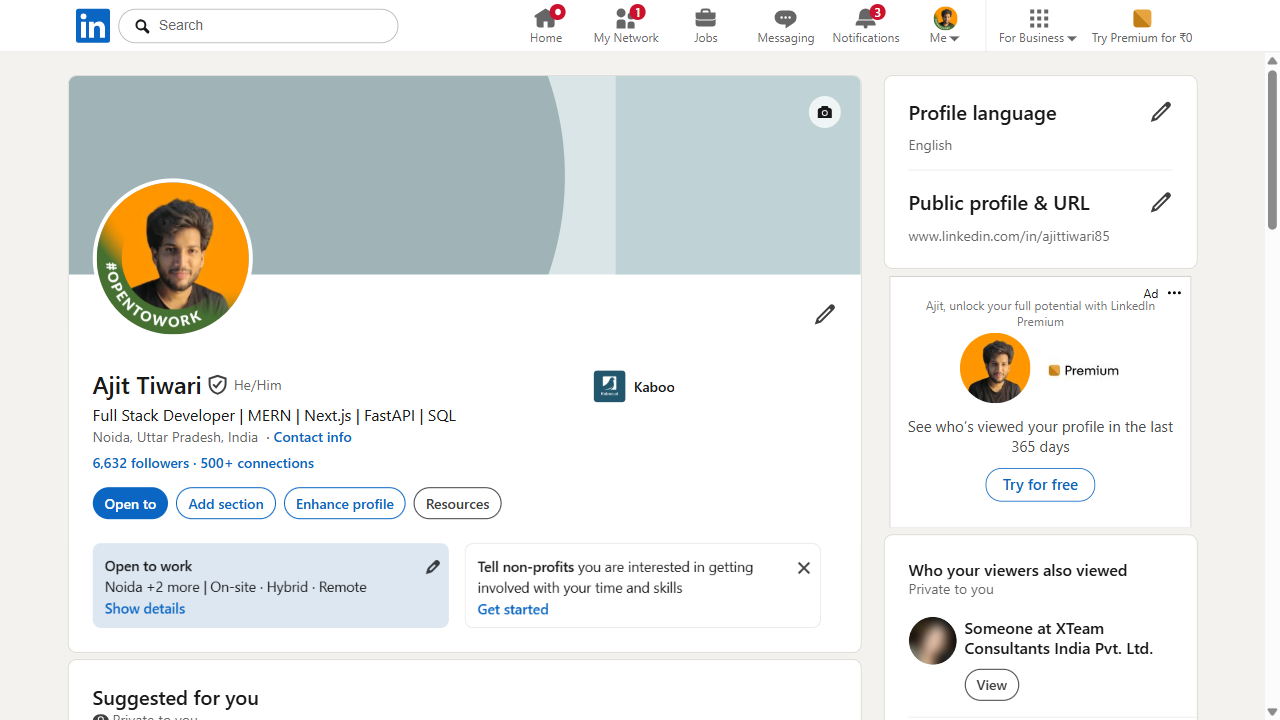
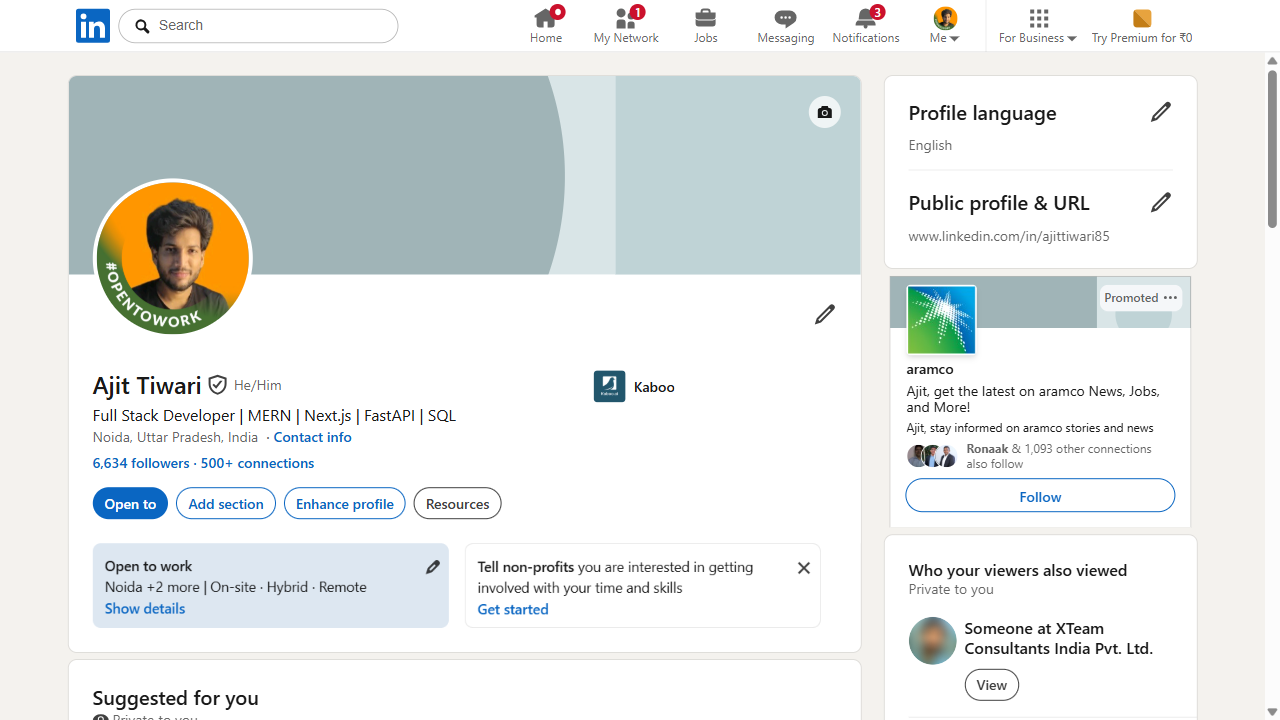
feat: add LinkedIn authentication workflow with session persistence

Changed region(s): [[0.6875, 0.3667, 0.9375, 0.7028], [0.6875, 0.8556, 0.75, 0.9472], [0.0938, 0.6417, 0.25, 0.6722]]

diff --git a/app/main.py b/app/main.py
@@ -2,6 +2,8 @@ from pathlib import Path
 
 from config.config import HEADLESS
 from browser.browser_manager import BrowserManager
+from linkedin.login import LinkedInLogin
+from linkedin.profile import LinkedInProfile
 from utils.logger import logger
 
 
@@ -14,39 +16,39 @@ def main():
         logger.info("===== CareerPilot-AI Started =====")
 
         browser.start()
+
         logger.info("Browser Started")
 
-        browser.open("https://www.linkedin.com")
-        logger.info("LinkedIn Opened")
+        login = LinkedInLogin(browser)
+        profile = LinkedInProfile(browser)
 
         auth = Path("auth/auth.json")
 
+        login.open()
+
         if not auth.exists():
 
-            logger.warning("No saved session found")
             input("Login complete hone ke baad ENTER dabao...")
 
             browser.save_session()
 
-        browser.open("https://www.linkedin.com/in/me/")
-        logger.info("Profile Opened")
-
-        browser.wait(3000)
+        profile.open()
 
         logger.info(f"Title : {browser.get_title()}")
         logger.info(f"URL   : {browser.get_url()}")
 
-        browser.take_screenshot("linkedin-profile")
-        logger.success("Screenshot Saved")
+        profile.screenshot()
 
-    except Exception as e:
+    except Exception:
 
-        logger.exception(f"Error : {e}")
+        logger.exception("Unexpected Error")
 
     finally:
 
         browser.close()
+
         logger.info("Browser Closed")
+
         logger.info("===== CareerPilot-AI Finished =====")
 
 

diff --git a/app/linkedin/profile.py b/app/linkedin/profile.py
@@ -1,0 +1,23 @@
+from utils.logger import logger
+
+
+class LinkedInProfile:
+
+    def __init__(self, browser):
+        self.browser = browser
+
+    def open(self):
+
+        logger.info("Opening Profile")
+
+        self.browser.open("https://www.linkedin.com/in/me/")
+
+        self.browser.wait(3000)
+
+        logger.success("Profile Opened")
+
+    def screenshot(self):
+
+        self.browser.take_screenshot("linkedin-profile")
+
+        logger.success("Profile Screenshot Saved")

diff --git a/app/linkedin/login.py b/app/linkedin/login.py
@@ -1,0 +1,15 @@
+from utils.logger import logger
+
+
+class LinkedInLogin:
+
+    def __init__(self, browser):
+        self.browser = browser
+
+    def open(self):
+
+        logger.info("Opening LinkedIn")
+
+        self.browser.open("https://www.linkedin.com")
+
+        logger.success("LinkedIn Opened")
